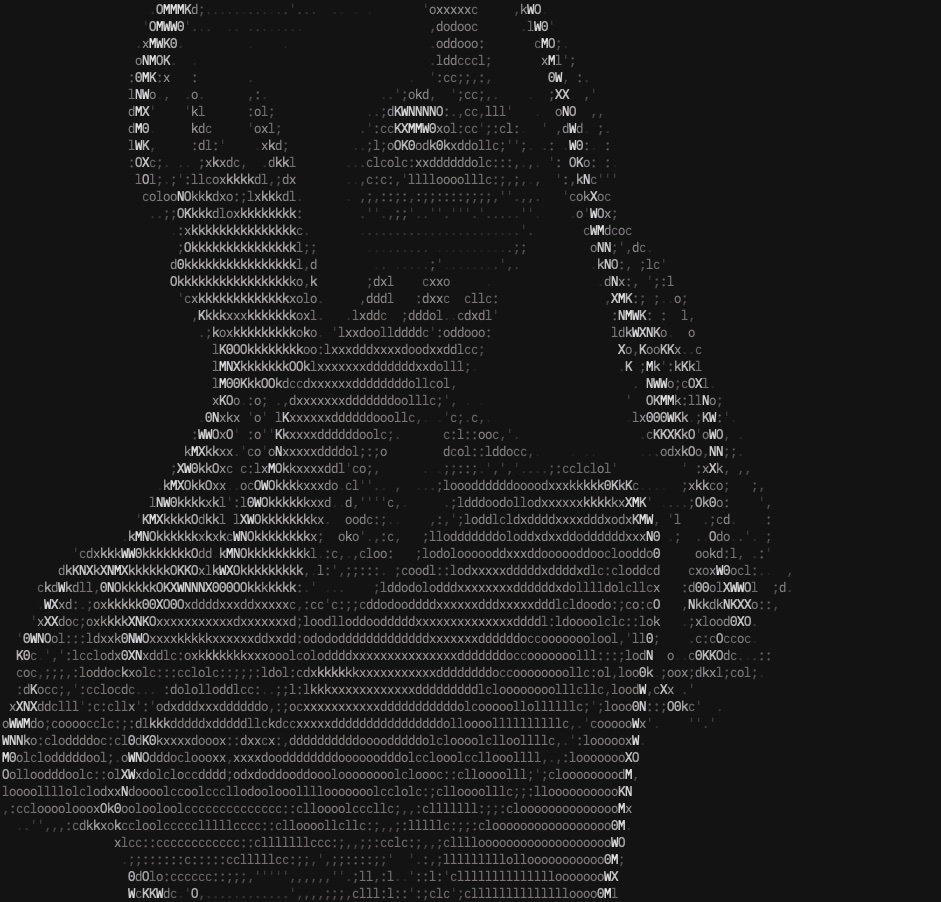
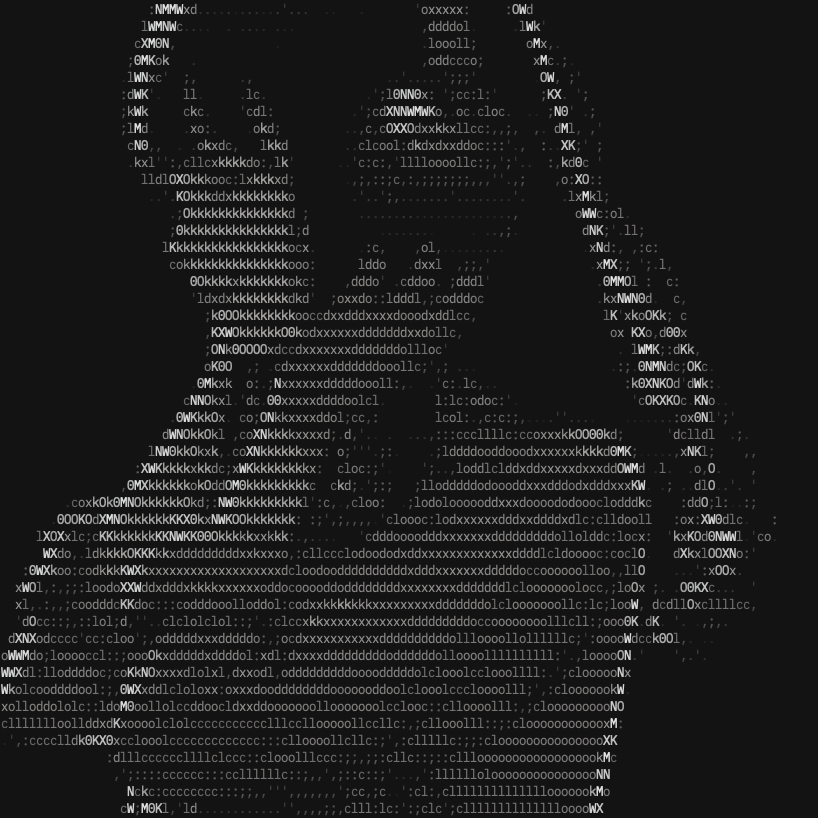
✨ feat: #21 generate from TOML and implement the options
Changelog: feature

Changed region(s): [[0.0, 0.0, 0.9169, 1.0]]

diff --git a/src/main.rs b/src/main.rs
@@ -1,23 +1,34 @@
 use anyhow::Result;
 use clap::Parser;
 use convert_image_to_ascii::convert_image_to_ascii;
-use crossterm::terminal::size;
 use dotenv::dotenv;
 use generate_image::{download_image, generate_image};
+use std::fs;
+use std::path::Path;
+use toml::Value;
 
 mod convert_image_to_ascii;
 mod generate_image;
 
-/// Generate image with DALL-E and print it
+/// You can use sample themes for tnap and generate image with default prompts or your own prompts.
 #[derive(Parser)]
 #[command(version, about, long_about = None)] // Read from Cargo.toml
 struct Args {
-    /// Prompt to pass to DALL-E
-    #[arg(short = 'p', long)]
+    /// Use the sample theme without generating images
+    #[arg(short, long)]
+    theme: Option<String>,
+
+    /// Generate Image by looking up the corresponding value in config.toml
+    /// using the subsequent string as a key and using it as a prompt.
+    #[arg(short, long)]
+    key: Option<String>,
+
+    /// Generate images with user-considered prompt
+    #[arg(short, long)]
     prompt: Option<String>,
 
     /// Convert an image to ASCII art
-    #[arg(short = 'a', long)]
+    #[arg(short, long)]
     ascii: bool,
 }
 
@@ -25,22 +36,58 @@ fn main() -> Result<()> {
     dotenv().ok(); // Read environment variable from .env file
     let args = Args::parse();
 
-    if let Some(prompt) = args.prompt {
-        println!("Generating an image...");
-        let image_url = generate_image(&prompt)?;
-        download_image(&image_url, "./src/img/generated_image.png")?;
+    match (args.theme, args.key, args.prompt) {
+        (Some(theme), None, None) => display_theme(&theme, args.ascii)?,
+        (None, Some(key), None) => display_generated_image_from_config(&key, args.ascii)?,
+        (None, None, Some(prompt)) => display_generated_image_from_prompt(&prompt, args.ascii)?,
+        _ => println!("Error: Invalid arguments combination."),
     }
+    Ok(())
+}
 
-    if args.ascii {
-        let (columns, rows) = size()?;
-        let size = (std::cmp::min(columns, rows) * 2) as u32;
-        println!("size: {}", size);
-        let image_path = "./src/img/girl_with_headphone_01.png";
-        convert_image_to_ascii(image_path, Some(size))?;
-        println!("Converted image to ASCII art!");
+fn display_theme(theme: &str, ascii: bool) -> Result<()> {
+    let path = format!("./themes/{}/{}_01.png", theme, theme);
+    // println!("{}", path);
+    if Path::new(&path).exists() {
+        display_image(&path, ascii)?;
     } else {
-        println!("Non-ASCII image feature is not implemented yet.");
+        println!("Error: Theme not found.");
     }
+    Ok(())
+}
 
+fn display_generated_image_from_config(key: &str, ascii: bool) -> Result<()> {
+    let contents = fs::read_to_string("./config.toml").unwrap();
+    let value = contents.parse::<Value>().unwrap();
+
+    if let Some(prompt) = value
+        .get("prompts")
+        .and_then(|v| v.get(key))
+        .and_then(|v| v.as_str())
+    {
+        display_generated_image_from_prompt(&prompt, ascii)?;
+    } else {
+        println!("Error: Key not found in config.");
+    }
+    Ok(())
+}
+
+fn display_generated_image_from_prompt(prompt: &str, ascii: bool) -> Result<()> {
+    println!("Generating image...");
+    let image_url = generate_image(&prompt)?;
+    let image_path = "./generate_image.png";
+    download_image(&image_url, image_path)?;
+    println!("Generated image downloaded to {}", image_path);
+    display_image(image_path, ascii)?;
+    Ok(())
+}
+
+fn display_image(path: &str, ascii: bool) -> Result<()> {
+    if ascii {
+        convert_image_to_ascii(&path)?;
+    } else {
+        println!("Displaying image: {}", path);
+        // render_image(&path)?;
+    }
     Ok(())
 }

diff --git a/src/convert_image_to_ascii.rs b/src/convert_image_to_ascii.rs
@@ -1,24 +1,29 @@
 use anyhow::{anyhow, Result};
 use artem::{config::ConfigBuilder, convert};
-use core::num::NonZeroU32;
+use crossterm::terminal::size;
 use image::io::Reader as ImageReader;
+use std::num::NonZeroU32;
 use std::path::Path;
 
-pub fn convert_image_to_ascii(image_path: &str, size: Option<u32>) -> Result<()> {
+pub fn convert_image_to_ascii(image_path: &str) -> Result<()> {
     // Open the image file
     let img = ImageReader::open(Path::new(image_path))
         .map_err(|e| anyhow!("Failed to open image: {}", e))?
         .decode()
         .map_err(|e| anyhow!("Failed to decode image: {}", e))?;
 
-    // // Conversion Config
-    let config = if let Some(s) = size {
+    // Conversion Config
+    let (columns, rows) = size()?;
+    // println!("columns: {}, rows: {}", columns, rows);
+    let size = (std::cmp::min(columns, rows) * 2) as u32;
+    // println!("size: {}", size);
+    let config = if let Some(s) = Some(size) {
         let target_size = NonZeroU32::new(s).expect("Width must be non-zero.");
-        println!("target_size: {}", target_size);
+        // println!("target_size: {}", target_size);
         ConfigBuilder::new()
             .center_x(true)
             .center_y(true)
-            .scale(0.40f32)
+            .scale(0.380025f32)
             .target_size(target_size)
             .build()
     } else {
@@ -27,7 +32,6 @@ pub fn convert_image_to_ascii(image_path: &str, size: Option<u32>) -> Result<()>
 
     // Convert image to ASCII
     let ascii_art = convert(img, &config);
-
     println!("{}", ascii_art);
 
     Ok(())

diff --git a/src/generate_image.rs b/src/generate_image.rs
@@ -9,7 +9,7 @@ use std::path::Path;
 pub fn generate_image(prompt: &str) -> Result<String> {
     let api_key =
         env::var("OPENAI_API_KEY").expect("Expected an environment variable OPENAI_API_KEY");
-
+    // println!("prompt: {}", prompt);
     let client = reqwest::blocking::Client::new();
     let response = client
         .post("https://api.openai.com/v1/images/generations")
@@ -23,7 +23,7 @@ pub fn generate_image(prompt: &str) -> Result<String> {
         }))
         .send()?
         .json::<Value>()?;
-
+    // println!("API Response: {:?}", response);
     let image_url = response["data"][0]["url"]
         .as_str()
         .ok_or(anyhow!("Failed to extract image URL"))?
@@ -38,7 +38,7 @@ pub fn download_image(url: &str, file_path: &str) -> Result<()> {
     let mut file = File::create(path)?;
 
     file.write_all(&response)?;
+    // println!("Image saved to {:?}", path);
 
-    println!("Image saved to {:?}", path);
     Ok(())
 }
